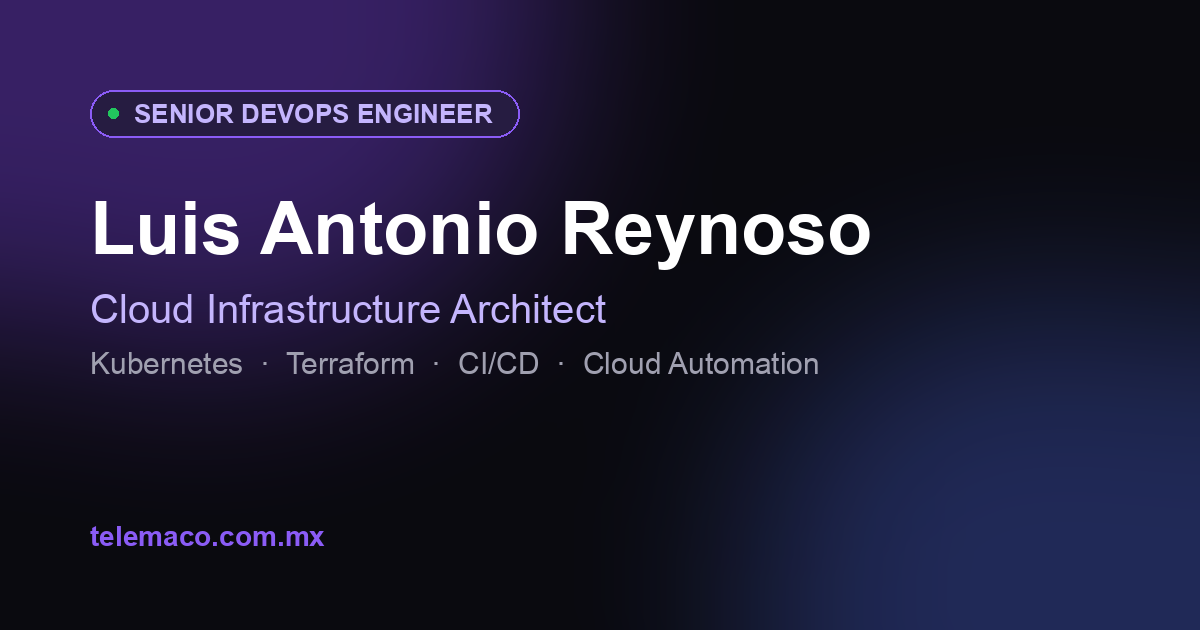
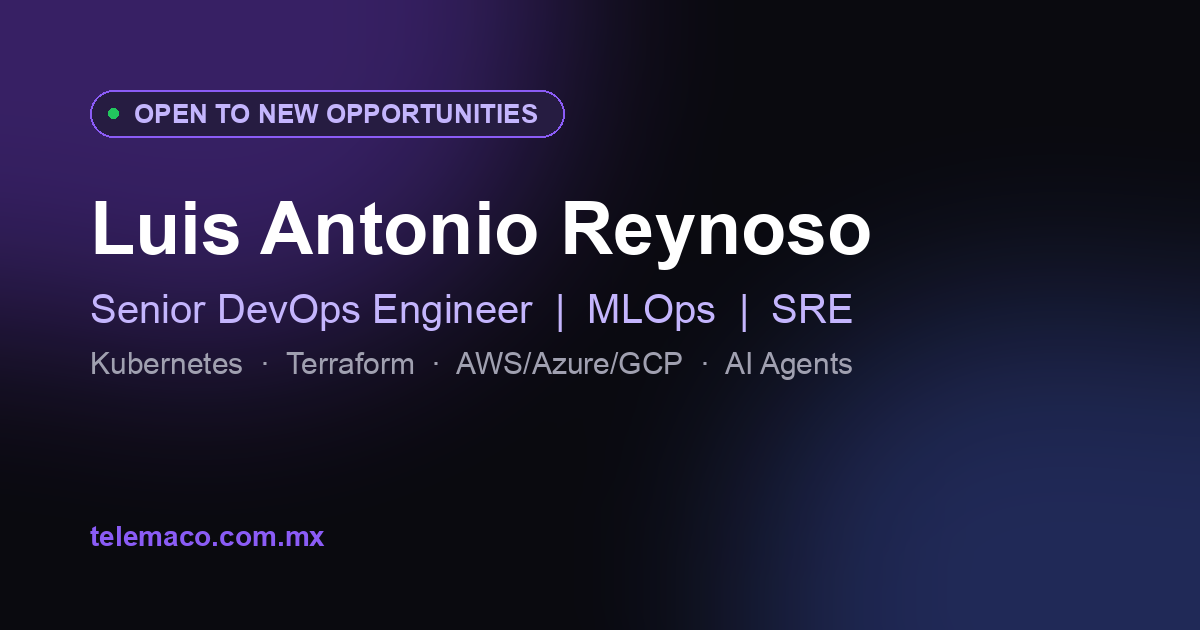
Update resume content to match latest MLOps/FDE experience
Replaces anonymized experience timeline with real employers (Movate/KKR,
EPAM, Tecnologia Corp, Luxoft, earlier career), adds AI & MLOps and Data &
Analytics skill categories, updates hero/about copy and location to
reflect current status, fixes a swapped school/date field bug in the
education cards, and regenerates the OG image to match.

Changed region(s): [[0.0617, 0.4524, 0.7092, 0.5429], [0.1233, 0.1206, 0.4625, 0.2413], [0.37, 0.5429, 0.7092, 0.6032]]

diff --git a/index.html b/index.html
@@ -3,8 +3,8 @@
 <head>
     <meta charset="UTF-8">
     <meta name="viewport" content="width=device-width, initial-scale=1.0">
-    <meta name="description" content="Luis Antonio Reynoso - DevOps Engineer specializing in cloud infrastructure, Kubernetes, and automation">
-    <meta name="keywords" content="DevOps, Cloud, Kubernetes, Terraform, AWS, Azure, CI/CD, Automation">
+    <meta name="description" content="Luis Antonio Reynoso - Senior DevOps Engineer & MLOps Forward Deployed Engineer specializing in cloud infrastructure, Kubernetes, and AI/ML automation">
+    <meta name="keywords" content="DevOps, MLOps, Cloud, Kubernetes, Terraform, AWS, Azure, GCP, CI/CD, Automation, SRE, AI Agents">
     <meta name="author" content="Luis Antonio Reynoso">
     <title>Luis Antonio Reynoso | DevOps Engineer</title>
 
@@ -16,14 +16,14 @@
     <meta property="og:type" content="website">
     <meta property="og:url" content="https://www.telemaco.com.mx/">
     <meta property="og:title" content="Luis Antonio Reynoso | DevOps Engineer">
-    <meta property="og:description" content="Senior DevOps Engineer specializing in cloud infrastructure, Kubernetes, and automation.">
+    <meta property="og:description" content="Senior DevOps Engineer & MLOps Forward Deployed Engineer specializing in cloud infrastructure, Kubernetes, and AI/ML automation.">
     <meta property="og:image" content="https://www.telemaco.com.mx/assets/og-image.png">
     <meta property="og:image:width" content="1200">
     <meta property="og:image:height" content="630">
 
     <meta name="twitter:card" content="summary_large_image">
     <meta name="twitter:title" content="Luis Antonio Reynoso | DevOps Engineer">
-    <meta name="twitter:description" content="Senior DevOps Engineer specializing in cloud infrastructure, Kubernetes, and automation.">
+    <meta name="twitter:description" content="Senior DevOps Engineer & MLOps Forward Deployed Engineer specializing in cloud infrastructure, Kubernetes, and AI/ML automation.">
     <meta name="twitter:image" content="https://www.telemaco.com.mx/assets/og-image.png">
 
     <link rel="preconnect" href="https://fonts.googleapis.com">
@@ -61,7 +61,7 @@
         <div class="hero-content">
             <div class="hero-badge">
                 <span class="badge-dot"></span>
-                <span>Senior DevOps Engineer @ EPAM Systems</span>
+                <span>Open to New Opportunities</span>
             </div>
             <p class="hero-greeting">Hello, I'm</p>
             <h1 class="hero-name">Luis Antonio Reynoso</h1>
@@ -70,13 +70,13 @@
                 <span class="cursor">|</span>
             </div>
             <p class="hero-description">
-                Building reliable infrastructure, automating everything, and bridging the gap between development and operations.
+                Architecting reliable infrastructure, automating machine learning workflows, and bridging the gap between development, operations, and AI.
             </p>
             <div class="hero-location">
                 <svg width="16" height="16" viewBox="0 0 24 24" fill="currentColor">
                     <path d="M12 2C8.13 2 5 5.13 5 9c0 5.25 7 13 7 13s7-7.75 7-13c0-3.87-3.13-7-7-7zm0 9.5c-1.38 0-2.5-1.12-2.5-2.5s1.12-2.5 2.5-2.5 2.5 1.12 2.5 2.5-1.12 2.5-2.5 2.5z"/>
                 </svg>
-                <span>Houston, Texas</span>
+                <span>Denver, Colorado</span>
             </div>
             <div class="hero-cta">
                 <a href="#contact" class="btn btn-primary">
@@ -113,20 +113,21 @@
             <div class="about-content">
                 <div class="about-text">
                     <p class="about-intro">
-                        I'm a <strong>DevOps Engineer</strong> with over 15 years of experience in IT, 
-                        passionate about cloud infrastructure, automation, and building scalable systems 
-                        that empower development teams.
+                        I'm a <strong>Senior DevOps Engineer</strong> with over 15 years of experience
+                        architecting, automating, and optimizing mission-critical infrastructure across
+                        AWS, Azure, and GCP for Fortune 500 enterprises.
                     </p>
                     <p>
-                        My journey started with a Computer Systems Engineering degree and has evolved 
-                        through various industries, from software development to enterprise IT consulting. 
-                        Today, I focus on infrastructure as code, Kubernetes orchestration, and fostering 
-                        DevOps culture within organizations.
+                        My journey started with a Computer Systems Engineering degree and has evolved
+                        through various industries, from IT outsourcing and enterprise consulting to
+                        automotive, energy, and financial services. Today, I focus on infrastructure as
+                        code, Kubernetes orchestration, and SRE practices at scale.
                     </p>
                     <p>
-                        I believe in continuous learning and staying ahead of the curve. Whether it's 
-                        exploring MLOps, DataOps, or the latest in cloud-native technologies, I'm always 
-                        looking for ways to improve and innovate.
+                        Most recently, I've been working as a Forward Deployed Engineer leading MLOps
+                        initiatives &mdash; architecting agentic chatbots and coding agents with Amazon
+                        SageMaker, Bedrock, Vertex AI, Azure AI Foundry, and Claude Code to automate
+                        machine learning deployment workflows for cross-functional DevOps and ML teams.
                     </p>
                 </div>
                 <div class="about-stats">
@@ -159,11 +160,13 @@
                         <h3>Cloud & Infrastructure</h3>
                     </div>
                     <div class="skill-tags">
-                        <span class="skill-tag">Terraform</span>
-                        <span class="skill-tag">Hetzner Cloud</span>
                         <span class="skill-tag">AWS</span>
                         <span class="skill-tag">Azure</span>
-                        <span class="skill-tag">Cloud-Init</span>
+                        <span class="skill-tag">GCP</span>
+                        <span class="skill-tag">Terraform</span>
+                        <span class="skill-tag">CloudFormation</span>
+                        <span class="skill-tag">Bicep</span>
+                        <span class="skill-tag">Hetzner Cloud</span>
                         <span class="skill-tag">Infrastructure as Code</span>
                     </div>
                 </div>
@@ -177,9 +180,10 @@
                     <div class="skill-tags">
                         <span class="skill-tag">Docker</span>
                         <span class="skill-tag">Kubernetes</span>
+                        <span class="skill-tag">EKS / AKS / GKE</span>
                         <span class="skill-tag">K3s</span>
-                        <span class="skill-tag">Container Security</span>
                         <span class="skill-tag">Helm</span>
+                        <span class="skill-tag">Container Security</span>
                     </div>
                 </div>
 
@@ -191,10 +195,45 @@
                     </div>
                     <div class="skill-tags">
                         <span class="skill-tag">GitHub Actions</span>
+                        <span class="skill-tag">Jenkins</span>
+                        <span class="skill-tag">Azure DevOps</span>
+                        <span class="skill-tag">GitLab CI/CD</span>
+                        <span class="skill-tag">CircleCI</span>
                         <span class="skill-tag">Ansible</span>
                         <span class="skill-tag">GitOps</span>
-                        <span class="skill-tag">Jenkins</span>
-                        <span class="skill-tag">HCP Terraform</span>
+                    </div>
+                </div>
+
+                <!-- AI & MLOps -->
+                <div class="skill-category">
+                    <div class="category-header">
+                        <div class="category-icon">🤖</div>
+                        <h3>AI & MLOps</h3>
+                    </div>
+                    <div class="skill-tags">
+                        <span class="skill-tag">Amazon Bedrock</span>
+                        <span class="skill-tag">Amazon SageMaker</span>
+                        <span class="skill-tag">Vertex AI</span>
+                        <span class="skill-tag">Azure AI Foundry</span>
+                        <span class="skill-tag">Claude Code</span>
+                        <span class="skill-tag">MCP</span>
+                        <span class="skill-tag">LLMOps</span>
+                        <span class="skill-tag">Agentic Workflows</span>
+                    </div>
+                </div>
+
+                <!-- Data & Analytics -->
+                <div class="skill-category">
+                    <div class="category-header">
+                        <div class="category-icon">📈</div>
+                        <h3>Data & Analytics</h3>
+                    </div>
+                    <div class="skill-tags">
+                        <span class="skill-tag">Apache Spark</span>
+                        <span class="skill-tag">Databricks</span>
+                        <span class="skill-tag">Snowflake</span>
+                        <span class="skill-tag">Apache Airflow</span>
+                        <span class="skill-tag">PostgreSQL</span>
                     </div>
                 </div>
 
@@ -206,9 +245,12 @@
                     </div>
                     <div class="skill-tags">
                         <span class="skill-tag">Splunk</span>
+                        <span class="skill-tag">Dynatrace</span>
+                        <span class="skill-tag">Datadog</span>
                         <span class="skill-tag">Prometheus</span>
                         <span class="skill-tag">Grafana</span>
-                        <span class="skill-tag">Log Management</span>
+                        <span class="skill-tag">OpenTelemetry</span>
+                        <span class="skill-tag">PagerDuty</span>
                     </div>
                 </div>
 
@@ -220,6 +262,7 @@
                     </div>
                     <div class="skill-tags">
                         <span class="skill-tag">Python</span>
+                        <span class="skill-tag">Go</span>
                         <span class="skill-tag">Bash</span>
                         <span class="skill-tag">PowerShell</span>
                         <span class="skill-tag">YAML</span>
@@ -227,17 +270,18 @@
                     </div>
                 </div>
 
-                <!-- Security & Best Practices -->
+                <!-- Security & SRE -->
                 <div class="skill-category">
                     <div class="category-header">
                         <div class="category-icon">🔐</div>
-                        <h3>Security & Best Practices</h3>
+                        <h3>Security & SRE</h3>
                     </div>
                     <div class="skill-tags">
                         <span class="skill-tag">Cybersecurity</span>
                         <span class="skill-tag">ITIL</span>
                         <span class="skill-tag">DevSecOps</span>
-                        <span class="skill-tag">Firewall Management</span>
+                        <span class="skill-tag">SLO/SLI Definition</span>
+                        <span class="skill-tag">Incident Response</span>
                         <span class="skill-tag">SSH Hardening</span>
                     </div>
                 </div>
@@ -252,24 +296,42 @@
             <p class="section-subtitle">15+ years of building and scaling infrastructure</p>
             <div class="timeline">
                 <div class="timeline-item">
-                    <div class="timeline-dot pulse"></div>
+                    <div class="timeline-dot"></div>
                     <div class="timeline-content">
                         <div class="timeline-header">
-                            <h3>Senior DevOps Engineer</h3>
-                            <span class="timeline-company">EPAM Systems</span>
+                            <h3>Senior DevOps MLOps Data Platform Engineer</h3>
+                            <span class="timeline-company">Movate / KKR</span>
                         </div>
                         <p class="timeline-period">
                             <svg width="14" height="14" viewBox="0 0 24 24" fill="currentColor">
                                 <path d="M12 2C8.13 2 5 5.13 5 9c0 5.25 7 13 7 13s7-7.75 7-13c0-3.87-3.13-7-7-7zm0 9.5c-1.38 0-2.5-1.12-2.5-2.5s1.12-2.5 2.5-2.5 2.5 1.12 2.5 2.5-1.12 2.5-2.5 2.5z"/>
                             </svg>
-                            Houston, TX | Current
+                            Boston, MA | March 2026 - August 2026
                         </p>
-                        <p>Architecting DevOps solutions and cloud infrastructure for enterprise clients. Leading automation initiatives, implementing infrastructure as code practices, and driving DevOps transformation across organizations.</p>
+                        <p>Served as an AI Forward Deployed Engineer, architecting agentic coding and chatbot frameworks with Claude Code and MCP across Bedrock, Vertex AI, and Azure AI Foundry. Hardened Terraform and IAM architecture for high-security data services and built schema automation pipelines for Redshift with formal change management.</p>
+                        <div class="timeline-tags">
+                            <span>MLOps</span>
+                            <span>Claude Code</span>
+                            <span>Terraform</span>
+                            <span>AWS</span>
+                        </div>
+                    </div>
+                </div>
+                <div class="timeline-item">
+                    <div class="timeline-dot"></div>
+                    <div class="timeline-content">
+                        <div class="timeline-header">
+                            <h3>Senior Release DevOps Engineer / SRE</h3>
+                            <span class="timeline-company">EPAM Systems</span>
+                        </div>
+                        <p class="timeline-period">Houston, TX | May 2023 - October 2025</p>
+                        <p>Designed multi-cloud infrastructure serving 2,500+ microservices across AWS and Azure supporting 50M+ daily transactions at 99.99% uptime. Cut deployment time 82%, reduced cloud costs by $1.2M annually, and led post-mortem analysis across 200+ incidents.</p>
                         <div class="timeline-tags">
                             <span>Kubernetes</span>
                             <span>Terraform</span>
                             <span>AWS</span>
-                            <span>CI/CD</span>
+                            <span>Azure</span>
+                            <span>FinOps</span>
                         </div>
                     </div>
                 </div>
@@ -277,16 +339,33 @@
                     <div class="timeline-dot"></div>
                     <div class="timeline-content">
                         <div class="timeline-header">
-                            <h3>DevOps Engineer</h3>
-                            <span class="timeline-company">Technology Services</span>
+                            <h3>Senior DevOps Engineer / Release Engineer</h3>
+                            <span class="timeline-company">Tecnologia Corp</span>
                         </div>
-                        <p class="timeline-period">Previous Role</p>
-                        <p>Developed enterprise monitoring solutions with Splunk, implemented CI/CD pipelines, and managed large-scale cloud deployments. Built automated infrastructure provisioning systems.</p>
+                        <p class="timeline-period">Houston, TX | November 2021 - May 2023</p>
+                        <p>Architected AKS infrastructure managing 3,000+ containerized applications across 5 regions. Built a proprietary provisioning toolset cutting infrastructure request fulfillment from 3 days to 2 hours, and led a DevOps team of 8 while mentoring 12+ engineers.</p>
+                        <div class="timeline-tags">
+                            <span>Kubernetes</span>
+                            <span>Azure</span>
+                            <span>Helm</span>
+                            <span>Leadership</span>
+                        </div>
+                    </div>
+                </div>
+                <div class="timeline-item">
+                    <div class="timeline-dot"></div>
+                    <div class="timeline-content">
+                        <div class="timeline-header">
+                            <h3>Release Engineer / DevOps SRE Tech Lead</h3>
+                            <span class="timeline-company">Luxoft (DXC Technology)</span>
+                        </div>
+                        <p class="timeline-period">San Francisco, CA | June 2017 - November 2021</p>
+                        <p>Managed continuous deployment of 4,000+ microservices across travel, automotive, healthcare, and financial services. Architected an enterprise Splunk stack processing 10TB+ logs daily and cut MTTR from 120+ minutes to 18 minutes.</p>
                         <div class="timeline-tags">
                             <span>Splunk</span>
-                            <span>Jenkins</span>
-                            <span>Azure</span>
-                            <span>Docker</span>
+                            <span>Dynatrace</span>
+                            <span>CI/CD</span>
+                            <span>SRE</span>
                         </div>
                     </div>
                 </div>
@@ -294,16 +373,15 @@
                     <div class="timeline-dot"></div>
                     <div class="timeline-content">
                         <div class="timeline-header">
-                            <h3>Systems Engineer</h3>
-                            <span class="timeline-company">Software Development</span>
+                            <h3>Earlier Career</h3>
+                            <span class="timeline-company">Accenture, Softtek, TATA TCS, City Council IT</span>
                         </div>
-                        <p class="timeline-period">Previous Role</p>
-                        <p>Built development environments, automated testing infrastructure, and supported engineering teams with tooling and platform engineering solutions.</p>
+                        <p class="timeline-period">Mexico | May 2009 - June 2017</p>
+                        <p>Progressed from Systems and Server Administrator to DevOps Engineer and SRE Tech Lead across enterprise consulting, IT outsourcing, and public sector roles, building the systems administration and automation foundation for a 15+ year infrastructure career.</p>
                         <div class="timeline-tags">
                             <span>Linux</span>
-                            <span>Python</span>
-                            <span>Bash</span>
-                            <span>Git</span>
+                            <span>Systems Administration</span>
+                            <span>Automation</span>
                         </div>
                     </div>
                 </div>
@@ -377,9 +455,9 @@
                                 <path d="M9.4 16.6L4.8 12l4.6-4.6L8 6l-6 6 6 6 1.4-1.4zm5.2 0l4.6-4.6-4.6-4.6L16 6l6 6-6 6-1.4-1.4z"/>
                             </svg>
                         </div>
-                        <h4>Data Science & Machine Learning</h4>
-                        <p class="education-school">Professional Development</p>
-                        <p class="education-period">Continuous Learning</p>
+                        <h4>Data Science Oriented Programming & Machine Learning</h4>
+                        <p class="education-school">Guadalajara, Mexico</p>
+                        <p class="education-period">2018</p>
                     </div>
                     <div class="education-card">
                         <div class="education-icon">
@@ -387,9 +465,9 @@
                                 <path d="M12 1L3 5v6c0 5.55 3.84 10.74 9 12 5.16-1.26 9-6.45 9-12V5l-9-4zm0 10.99h7c-.53 4.12-3.28 7.79-7 8.94V12H5V6.3l7-3.11v8.8z"/>
                             </svg>
                         </div>
-                        <h4>Cybersecurity & BigData</h4>
-                        <p class="education-school">International Program</p>
-                        <p class="education-period">Barcelona, Spain</p>
+                        <h4>International Program in Cybersecurity & Big Data</h4>
+                        <p class="education-school">Barcelona, Spain</p>
+                        <p class="education-period">2019</p>
                     </div>
                 </div>
             </div>

diff --git a/js/main.js b/js/main.js
@@ -20,11 +20,11 @@ document.querySelectorAll('.nav-link').forEach(link => {
 // ===== Typing Effect =====
 const typingElement = document.getElementById('typing');
 const phrases = [
-    'DevOps Engineer',
-    'Cloud Architect',
-    'Automation Expert',
-    'Infrastructure as Code Specialist',
-    'Kubernetes Enthusiast'
+    'Senior DevOps Engineer',
+    'MLOps Forward Deployed Engineer',
+    'Site Reliability Engineer',
+    'Cloud Infrastructure Architect',
+    'Kubernetes & AI Automation Specialist'
 ];
 
 let phraseIndex = 0;

diff --git a/css/styles.css b/css/styles.css
@@ -1074,6 +1074,8 @@ img {
 .skill-category:nth-child(4) { animation-delay: 300ms; }
 .skill-category:nth-child(5) { animation-delay: 400ms; }
 .skill-category:nth-child(6) { animation-delay: 500ms; }
+.skill-category:nth-child(7) { animation-delay: 600ms; }
+.skill-category:nth-child(8) { animation-delay: 700ms; }
 
 .cert-card:nth-child(1) { animation-delay: 0ms; }
 .cert-card:nth-child(2) { animation-delay: 100ms; }
